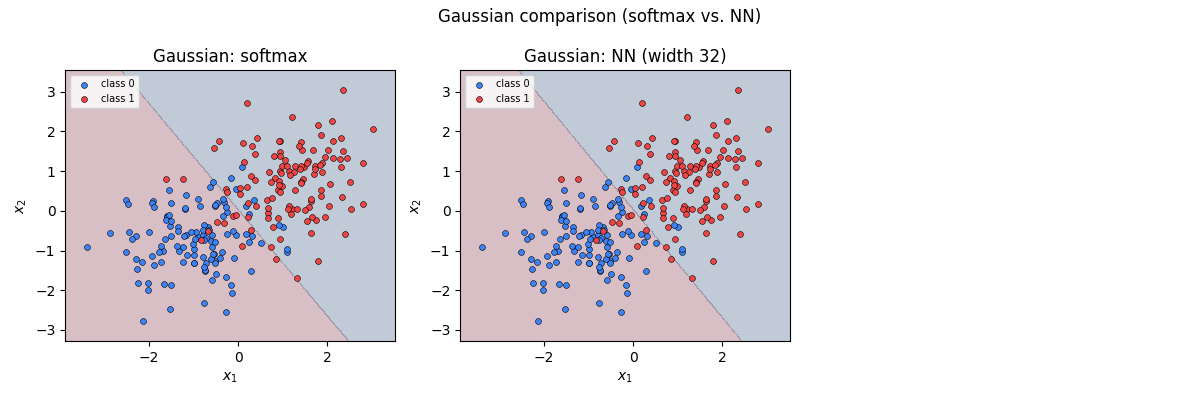
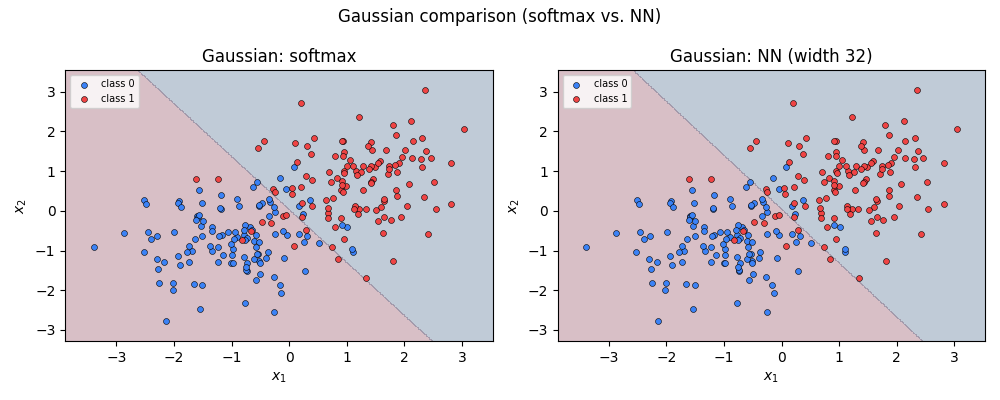
tiny changes

diff --git a/starter_pack/src/core_experiments.py b/starter_pack/src/core_experiments.py
@@ -39,7 +39,7 @@ except ImportError:
     import softmax_model as sm
     from neural_network import OneHiddenLayerNN
     from metrics import accuracy, mean_cross_entropy
-from plotting import plot_decision_boundary, plot_learning_curves
+    from plotting import plot_decision_boundary, plot_learning_curves
 
 #
 # Output directories
@@ -213,7 +213,7 @@ def story_gaussian():
     results_records.append(("gaussian", "nn_width32_sgd", float(acc_nn), float(ce_nn)))
 
     # Decision boundary plots
-    fig, axes = plt.subplots(1, 3, figsize=(12, 4))
+    fig, axes = plt.subplots(1, 2, figsize=(10, 4))
     # Softmax boundary
     pred_fn_softmax = lambda X: np.argmax(sm.predict_proba(X, W_s, b_s), axis=1)
     plot_decision_boundary(
@@ -224,8 +224,6 @@ def story_gaussian():
     plot_decision_boundary(
         pred_fn_nn, X_train, y_train, axes[1], title="Gaussian: NN (width 32)"
     )
-    # Combined overlay figure: show both boundaries side by side
-    axes[2].axis("off")
     fig.suptitle("Gaussian comparison (softmax vs. NN)")
     fig.tight_layout()
     fig.savefig(FIG_DIR / "gaussian_comparison.png")
@@ -272,7 +270,7 @@ def story_moons():
     results_records.append(("moons", "nn_width32_sgd", float(acc_nn), float(ce_nn)))
 
     # Decision boundary plots
-    fig, axes = plt.subplots(1, 3, figsize=(12, 4))
+    fig, axes = plt.subplots(1, 2, figsize=(10, 4))
     pred_fn_softmax = lambda X: np.argmax(sm.predict_proba(X, W_s, b_s), axis=1)
     plot_decision_boundary(
         pred_fn_softmax, X_train, y_train, axes[0], title="Moons: softmax"
@@ -281,7 +279,6 @@ def story_moons():
     plot_decision_boundary(
         pred_fn_nn, X_train, y_train, axes[1], title="Moons: NN (width 32)"
     )
-    axes[2].axis("off")
     fig.suptitle("Moons comparison (softmax vs. NN)")
     fig.tight_layout()
     fig.savefig(FIG_DIR / "moons_comparison.png")
